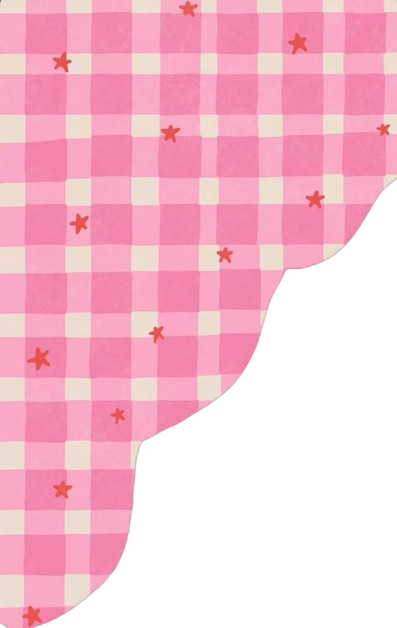
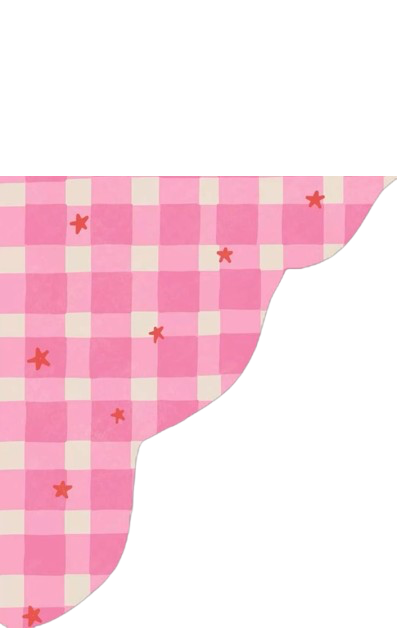
landing page updated and pink color shade changed

Changed region(s): [[0.0, 0.0, 1.0, 0.3025]]

diff --git a/src/pages/RegisterPage.jsx b/src/pages/RegisterPage.jsx
@@ -3,14 +3,14 @@ function RegisterPage(){
         const navigate=useNavigate()
     return(
         <div className="relative flex flex-col h-screen bg-[#EDECED] items-center justify-center gap-3 ">
-            <img src="/icons.png" className="absolute top-0 left-0 w-64 h-auto" />
-            <img src="/bow.png" className="h-50 w-35 -mt-50"></img>
-            <h1 className="text-black font-['Times_New_Roman_MT_Condensed',_serif] text-8xl -mt-20 hover:scale-105 hover:text-[#FF1FA9] active:scale-95 transition-all duration-200 ">shelfie</h1>
-            <img src="/icon_design.png" className="absolute bottom-0 right-0 w-64 h-auto" />
+            <img src="/icons.png" className="absolute -top-30 left-0 w-64 h-auto" />
+            <img src="/bow.png" className="h-50 w-35 -mt-30"></img>
+            <h1 className="text-black font-['Times_New_Roman_MT_Condensed',_serif] text-8xl -mt-20 hover:scale-105 hover:text-black active:scale-95 transition-all duration-200 ">shelfie</h1>
+            <img src="/icon_design.png" className="absolute -top-30 right-0 w-64 h-auto" />
             <div className="flex flex-col gap-12 items-center">
             <p className="text-[#FF1FA9] font-['Times_New_Roman_MT_Condensed',_serif] text-4xl italic">your very own digi-bookshelf</p>
-            <div className="bg-white rounded-3xl p-6 h-80 w-100 flex flex-col gap-2">
-                <label htmlFor="" className="font-['Times_New_Roman_MT_Condensed',_serif] text-[#FF1FA9] text-2xl">Name</label>
+            <div className="bg-white rounded-3xl p-6 h- w-100 flex flex-col gap-2">
+                <label htmlFor="" className="font-['Times_New_Roman_MT_Condensed',_serif] text-[#FF1FA9] text-2xl -mt-2">Name</label>
                 <input type="text"  className="border-1 rounded-full w-full outline-none px-4 py-2"></input>
                 <label htmlFor="" className="font-['Times_New_Roman_MT_Condensed',_serif] text-[#FF1FA9] text-2xl">Email</label>
                 <input type="text"  className="border-1 rounded-full w-full outline-none px-4 py-2"></input>
@@ -19,8 +19,9 @@ function RegisterPage(){
                 
                 
             </div>
-            <button className="bg-white text-[#FF1FA9] rounded-full border-1 border-[#FF1FA9] w-60 h-15 hover:scale-105 hover:bg-[#FF1FA9] hover:text-white active:scale-95 transition-all duration-200" onClick={()=>navigate('/shelf')}>Register</button>
+            <button className="bg-white text-[#FF1FA9] rounded-full border-1 border-[#FF1FA9] w-60 h-15 hover:scale-105 hover:bg-[#F48AAE] hover:text-white active:scale-95 transition-all duration-200" onClick={()=>navigate('/shelf')}>Register</button>
             </div>
+            <div className="absolute bottom-0 bg-[#F48AAE] h-10 w-full whitespace-nowrap"></div>
             
 
         </div>

diff --git a/src/pages/HomePage.jsx b/src/pages/HomePage.jsx
@@ -24,8 +24,8 @@ function HomePage(){
 
     return(
         <div className="relative flex flex-col h-screen bg-[#EDECED]">
-        <img src="../public/plant.png" className="absolute bottom-9 -left-30 w-120 z-15 h-75"/>
-        <img src="../public/plant.png" className="absolute bottom-9 -right-30 w-120 z-20 h-75" />
+        <img src="../public/plant.png" className="absolute bottom-2 -left-30 w-120 z-15 h-75"/>
+        <img src="../public/plant.png" className="absolute bottom-2 -right-30 w-120 z-20 h-75" />
         <div className="flex flex-col h-screen">
             <div className="h-1/2 bg-[#EDECED]">
             <div className="relative">
@@ -38,12 +38,12 @@ function HomePage(){
             </div>
             <div className="h-1/2 bg-[#EDECED] flex flex-col justify-center items-center px-20">
             <div className=" font-['Times_New_Roman',_serif] text-black text-7xl">
-                <h1>Hello <span className="italic text-[#FF1FA9]">Nikita!</span></h1>
-            <div className="absolute bottom-46 left-1/2 -translate-x-1/2 w-[40%] h-7 bg-black/100 blur-2xl rounded-[100%] z-0"></div>
+                <h1>Welcome to your <span className="italic text-[#F48AAE]">Shelf!</span></h1>
+
             </div>
             </div>
-            <div className="bottom-0 bg-[#FF1FA9] h-25 w-full whitespace-nowrap">
-            <p className="animate-marquee text-white font-['Times_New_Roman',_serif] text-2xl text-center mt-6">~Grab a coffee and your favorite book   -   Reading is dreaming with open eyes   -   Books make great gifts because they have whole worlds inside of them   -   Books are a uniquely portable magic~</p>
+            <div className="bottom-0 bg-[#F48AAE] h-10 w-full whitespace-nowrap">
+            <p className="animate-marquee text-white font-['Times_New_Roman',_serif] text-2xl text-center ">~Grab a coffee and your favorite book   -   Reading is dreaming with open eyes   -   Books make great gifts because they have whole worlds inside of them   -   Books are a uniquely portable magic~</p>
             </div>
 
         </div>

diff --git a/src/pages/LandingPage.jsx b/src/pages/LandingPage.jsx
@@ -3,17 +3,17 @@ function LandingPage(){
     const navigate=useNavigate()
     return(
         <div className="relative flex flex-col h-screen bg-[#EDECED] items-center justify-center gap-3 ">
-            <img src="/icons.png" className="absolute top-0 left-0 w-64 h-auto" />
+            <img src="/icons.png" className="absolute -top-30 left-0 w-64 h-auto" />
             <img src="/bow.png" className="h-50 w-35 -mt-50"></img>
-            <h1 className="text-black font-['Times_New_Roman_MT_Condensed',_serif] text-8xl -mt-20 hover:scale-105 hover:text-[#FF1FA9] active:scale-95 transition-all duration-200 ">shelfie</h1>
-            <img src="/icon_design.png" className="absolute bottom-0 right-0 w-64 h-auto" />
+            <h1 className="text-black font-['Times_New_Roman_MT_Condensed',_serif] text-8xl -mt-20 hover:scale-105 hover:text-black active:scale-95 transition-all duration-200 ">shelfie</h1>
+            <img src="/icon_design.png" className="absolute -top-30 right-0 w-64 h-auto" />
             <div className="flex flex-col gap-12 items-center">
             <p className="text-[#FF1FA9] font-['Times_New_Roman_MT_Condensed',_serif] text-4xl italic">your very own digi-bookshelf</p>
-            <button className="bg-white text-[#FF1FA9] rounded-full border-1 border-[#FF1FA9] w-60 h-15 hover:scale-105 hover:bg-[#FF1FA9] hover:text-white active:scale-95 transition-all duration-200" onClick={()=>navigate('/register')}>Register</button>
-            <button className="bg-white text-[#FF1FA9] rounded-full border-1 border-[#FF1FA9] w-60 h-15 hover:scale-105 hover:bg-[#FF1FA9] hover:text-white active:scale-95 transition-all duration-200" onClick={()=>navigate('/login')}>Login</button>
+            <button className="bg-white text-[#F48AAE] rounded-full border-1 border-[#FF1FA9] w-60 h-15 hover:scale-105 hover:bg-[#F48AAE] hover:text-white active:scale-95 transition-all duration-200" onClick={()=>navigate('/register')}>Register</button>
+            <button className="bg-white text-[#F48AAE] rounded-full border-1 border-[#FF1FA9] w-60 h-15 hover:scale-105 hover:bg-[#F48AAE] hover:text-white active:scale-95 transition-all duration-200" onClick={()=>navigate('/login')}>Login</button>
             </div>
             
-
+        <div className="absolute bottom-0 bg-[#F48AAE] h-10 w-full whitespace-nowrap"></div>
         </div>
     )
 }